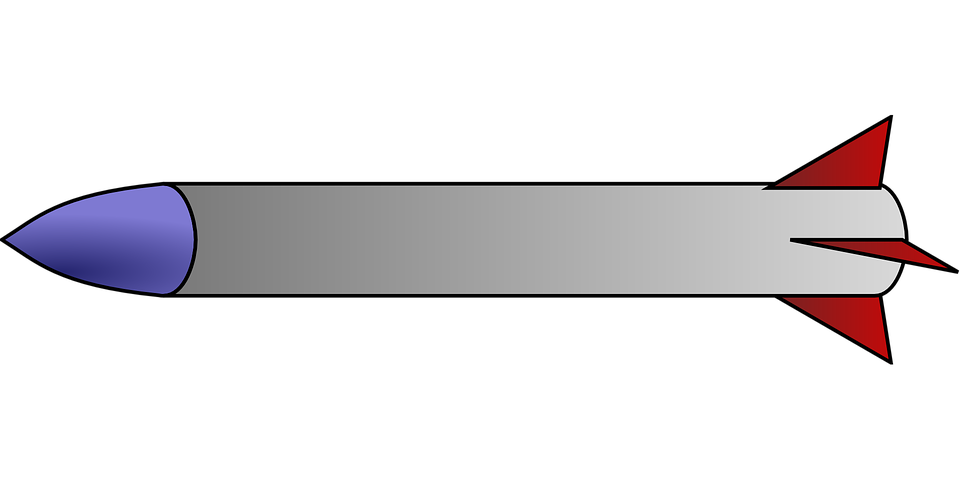
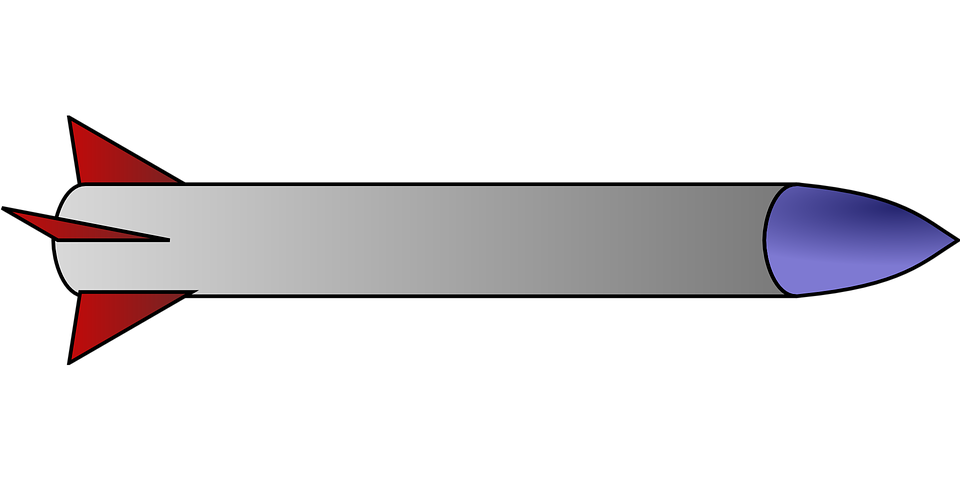
started the rendering of missiles and fixed rotation

Changed region(s): [[0.0, 0.25, 1.0, 0.75]]

diff --git a/Game/core/src/com/backendboys/battlerace/view/game/MissileRender.java b/Game/core/src/com/backendboys/battlerace/view/game/MissileRender.java
@@ -6,43 +6,50 @@ import com.badlogic.gdx.graphics.OrthographicCamera;
 import com.badlogic.gdx.graphics.Texture;
 import com.badlogic.gdx.graphics.g2d.Sprite;
 import com.badlogic.gdx.graphics.g2d.SpriteBatch;
+import com.badlogic.gdx.math.MathUtils;
 
 import java.util.ArrayList;
 
 public class MissileRender {
 
     private final OrthographicCamera orthographicCamera;
-    private final ArrayList<IParticle> missiles;
+
     private final SpriteBatch batch;
     private final Sprite sprite;
 
-    private final static int WIDTH = 10, HEIGHT = 10;
+    private final static int WIDTH = 30, HEIGHT = 10;
 
-    public MissileRender(OrthographicCamera orthographicCamera, ArrayList<IParticle> powerUps) {
+    public MissileRender(OrthographicCamera orthographicCamera) {
         this.orthographicCamera = orthographicCamera;
-        this.missiles = powerUps;
+
         batch = new SpriteBatch();
-        Texture texture = new Texture(Gdx.files.internal(""));
+        Texture texture = new Texture(Gdx.files.internal("missile.png"));
         sprite = new Sprite(texture);
         sprite.setSize(WIDTH,HEIGHT);
+        sprite.setOrigin(WIDTH/2f,HEIGHT/2f);
     }
 
-    public void render(){
+    public void render(ArrayList<IParticle> missiles ){
+        batch.begin();
         for (IParticle missile: missiles){
             if(withinCamera(missile)){
-                batch.begin();
+
+                sprite.setPosition(missile.getPosition().x-10,missile.getPosition().y-6);
+                sprite.setRotation(MathUtils.radiansToDegrees*(missile.getRotation()));
                 batch.setProjectionMatrix(orthographicCamera.combined);
-                sprite.setPosition(missile.getPosition().x,missile.getPosition().y);
                 sprite.draw(batch);
-                batch.end();
             }
         }
+        batch.end();
     }
 
+    public void dispose(){
+        batch.dispose();
+    }
     private boolean withinCamera(IParticle missile){
         if (missile.getPosition().x > orthographicCamera.position.x - orthographicCamera.viewportWidth){
             return missile.getPosition().x < orthographicCamera.position.x + orthographicCamera.viewportWidth;
         }
-        return false;
+        return true;
     }
 }

diff --git a/Game/core/src/com/backendboys/battlerace/view/screens/GameScreen.java b/Game/core/src/com/backendboys/battlerace/view/screens/GameScreen.java
@@ -3,6 +3,7 @@ package com.backendboys.battlerace.view.screens;
 import com.backendboys.battlerace.controller.GameController;
 import com.backendboys.battlerace.model.gamemodel.IModelListener;
 import com.backendboys.battlerace.view.game.BackgroundRender;
+import com.backendboys.battlerace.view.game.MissileRender;
 import com.backendboys.battlerace.view.game.PowerUpsRender;
 import com.backendboys.battlerace.view.game.VehicleRender;
 import com.badlogic.gdx.Gdx;
@@ -21,6 +22,7 @@ class GameScreen extends AbstractScreen implements IScreen, IModelListener {
     private final BackgroundRender backgroundRender;
     private final VehicleRender vehicleRender;
     private final PowerUpsRender powerUpsRender;
+    private final MissileRender missileRender;
 
     private final OrthographicCamera camera;
     private final ExtendViewport viewport;
@@ -33,7 +35,7 @@ class GameScreen extends AbstractScreen implements IScreen, IModelListener {
         debugRenderer = new Box2DDebugRenderer();
         backgroundRender = new BackgroundRender(camera, gameController.getGameWorld().getGroundVertices());
         vehicleRender = new VehicleRender(camera);
-
+        missileRender = new MissileRender(camera);
         powerUpsRender = new PowerUpsRender(camera, gameController.getGameModel().getPowerUps());
 
     }
@@ -50,6 +52,7 @@ class GameScreen extends AbstractScreen implements IScreen, IModelListener {
         backgroundRender.renderBackground();
         vehicleRender.renderVehicle(gameController.getGameModel().getPlayer().getVehicle());
         debugRenderer.render(gameController.getGameWorld().getWorld(), camera.combined);
+        missileRender.render(gameController.getGameWorld().getMissiles());
         powerUpsRender.renderPowerUps();
         Gdx.graphics.setTitle("" + Gdx.graphics.getFramesPerSecond());
     }
@@ -66,6 +69,7 @@ class GameScreen extends AbstractScreen implements IScreen, IModelListener {
         debugRenderer.dispose();
         backgroundRender.dispose();
         vehicleRender.dispose();
+        missileRender.dispose();
         powerUpsRender.dispose();
     }
 

diff --git a/Game/core/src/com/backendboys/battlerace/model/gamemodel/particles/OnImpactMissile.java b/Game/core/src/com/backendboys/battlerace/model/gamemodel/particles/OnImpactMissile.java
@@ -7,14 +7,14 @@ import com.badlogic.gdx.physics.box2d.*;
 /**
  * A Missile that explodes on impact created in WorldExplosions
  */
-class OnImpactMissile extends AbstractExplosive implements IParticle{
+class OnImpactMissile extends AbstractExplosive implements IParticle {
     private final Body body;
     private static final Vector2 direction = new Vector2(10, 4);
     private static final float MOVEMENT_POWER = 100;
-    private static final float MISSILE_LENGTH = 5f;
-    private static final float MISSILE_HEIGHT = 1f;
-    private static final float LAUNCH_OFFSET_Y = 20f;
-    private static final float LAUNCH_OFFSET_x = 0f;
+    private static final float MISSILE_LENGTH = 10f;
+    private static final float MISSILE_HEIGHT = 3f;
+    private static final float LAUNCH_OFFSET_Y = 5f;
+    private static final float LAUNCH_OFFSET_x = 41.5f;
     private static final int NUM_PARTICLES = 30;
 
     /**
@@ -32,15 +32,19 @@ class OnImpactMissile extends AbstractExplosive implements IParticle{
         bodyDef.fixedRotation = false; // A missile can rotate
         bodyDef.bullet = false;
         bodyDef.linearDamping = 0; //air resistance
-        bodyDef.gravityScale = 1;
+        bodyDef.gravityScale = 0.5f;
         bodyDef.position.x = pos.x + LAUNCH_OFFSET_x;
         bodyDef.position.y = pos.y + LAUNCH_OFFSET_Y;
+        System.out.println(rotation);
+        //bodyDef.angle = 0; //rotation + (MathUtils.PI / 2);
         direction.scl(MOVEMENT_POWER);
-        bodyDef.linearVelocity.x = direction.x ;
-        bodyDef.linearVelocity.y = direction.y ;
+        bodyDef.linearVelocity.x = direction.x;
+        bodyDef.linearVelocity.y = direction.y;
         body = world.createBody(bodyDef);
+        body.setTransform(body.getPosition(),rotation - (MathUtils.PI / 2));
 
-        body.setUserData(this);
+
+        body.getMassData().center.x = 8f;
         PolygonShape polygonShape = new PolygonShape();
         polygonShape.setAsBox(MISSILE_LENGTH, MISSILE_HEIGHT);
 

diff --git a/Game/core/src/com/backendboys/battlerace/model/gamemodel/particles/WorldExplosions.java b/Game/core/src/com/backendboys/battlerace/model/gamemodel/particles/WorldExplosions.java
@@ -17,8 +17,8 @@ public class WorldExplosions {
      * A list of all the explosions that have been created in the world
      */
 
-    private static final ArrayList<Explosion> explosions = new ArrayList<>();
-    private static final ArrayList<OnImpactMissile> missiles = new ArrayList<>();
+    private  final ArrayList<Explosion> explosions = new ArrayList<>();
+    private  final ArrayList<OnImpactMissile> missiles = new ArrayList<>();
 
     public WorldExplosions() {
     }
@@ -107,7 +107,7 @@ public class WorldExplosions {
         missiles.add(new OnImpactMissile(world, pos, rotation));
     }
 
-    public static ArrayList<IParticle> getMissiles() {
+    public  ArrayList<IParticle> getMissiles() {
         ArrayList<IParticle> iParticleMissiles = new ArrayList();
         for (OnImpactMissile missile: missiles){
             iParticleMissiles.add(missile);

diff --git a/Game/core/src/com/backendboys/battlerace/model/gamemodel/world/GameWorld.java b/Game/core/src/com/backendboys/battlerace/model/gamemodel/world/GameWorld.java
@@ -84,7 +84,7 @@ public class GameWorld {
     }
 
     public ArrayList<IParticle> getMissiles() {
-        return WorldExplosions.getMissiles();
+        return worldExplosions.getMissiles();
     }
 
     public int getNumberOfPowerUps() {
